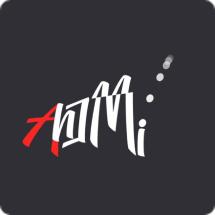
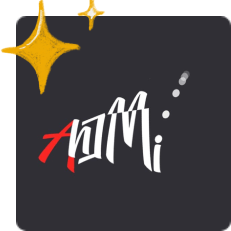
style: Promote the telegram channel

diff --git a/README.md b/README.md
@@ -13,7 +13,7 @@
 <p align="center">
   <img src="commits.png" width="465" >
   &nbsp;&nbsp;
-  <a href="https://t.me/s/AhIMi_channel" title="t.me/AhIMi_channel" target="_blank"><img width="100" src="AhIMi.png" alt="AhIMi"></a>
+  <a href="https://t.me/s/AhIMi_channel" title="t.me/AhIMi_channel" target="_blank"><img width="100" src="AhIMi.png?td=1704529740921" alt="AhIMi"></a>
 </p>
 
 ❤ `Next.js` `react` `neo4j` `PyTorch` `spiking neural network` `NLP` `flutter` `rust`
